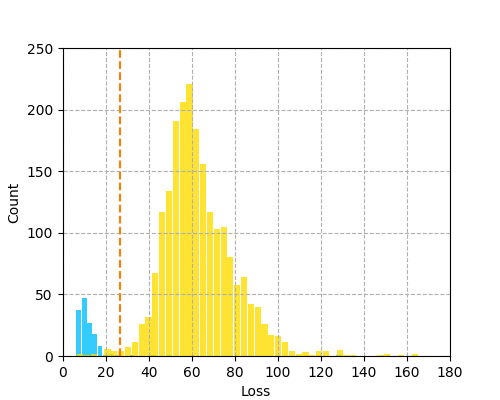
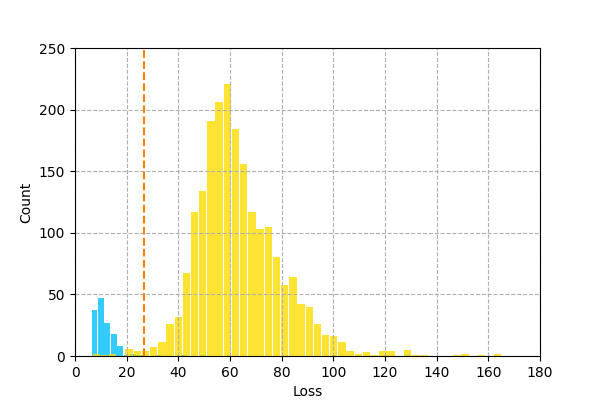
Changed the height of the figure.

diff --git a/predict.py b/predict.py
@@ -36,7 +36,7 @@ def plot_predictions(net, test_normal_dataset, test_anomaly_dataset, ncols=6):
     plt.savefig('figure/predictions.png')
 
 def plot_losses(normal_losses, anomaly_losses, threshold):
-    plt.figure(figsize=(5, 4))
+    plt.figure(figsize=(6, 4))
 
     plt.hist(normal_losses, bins=50, rwidth=0.9, color=COLORS_PALETTE[0], alpha=0.8)
     plt.hist(anomaly_losses, bins=50, rwidth=0.9, color=COLORS_PALETTE[1], alpha=0.8)
